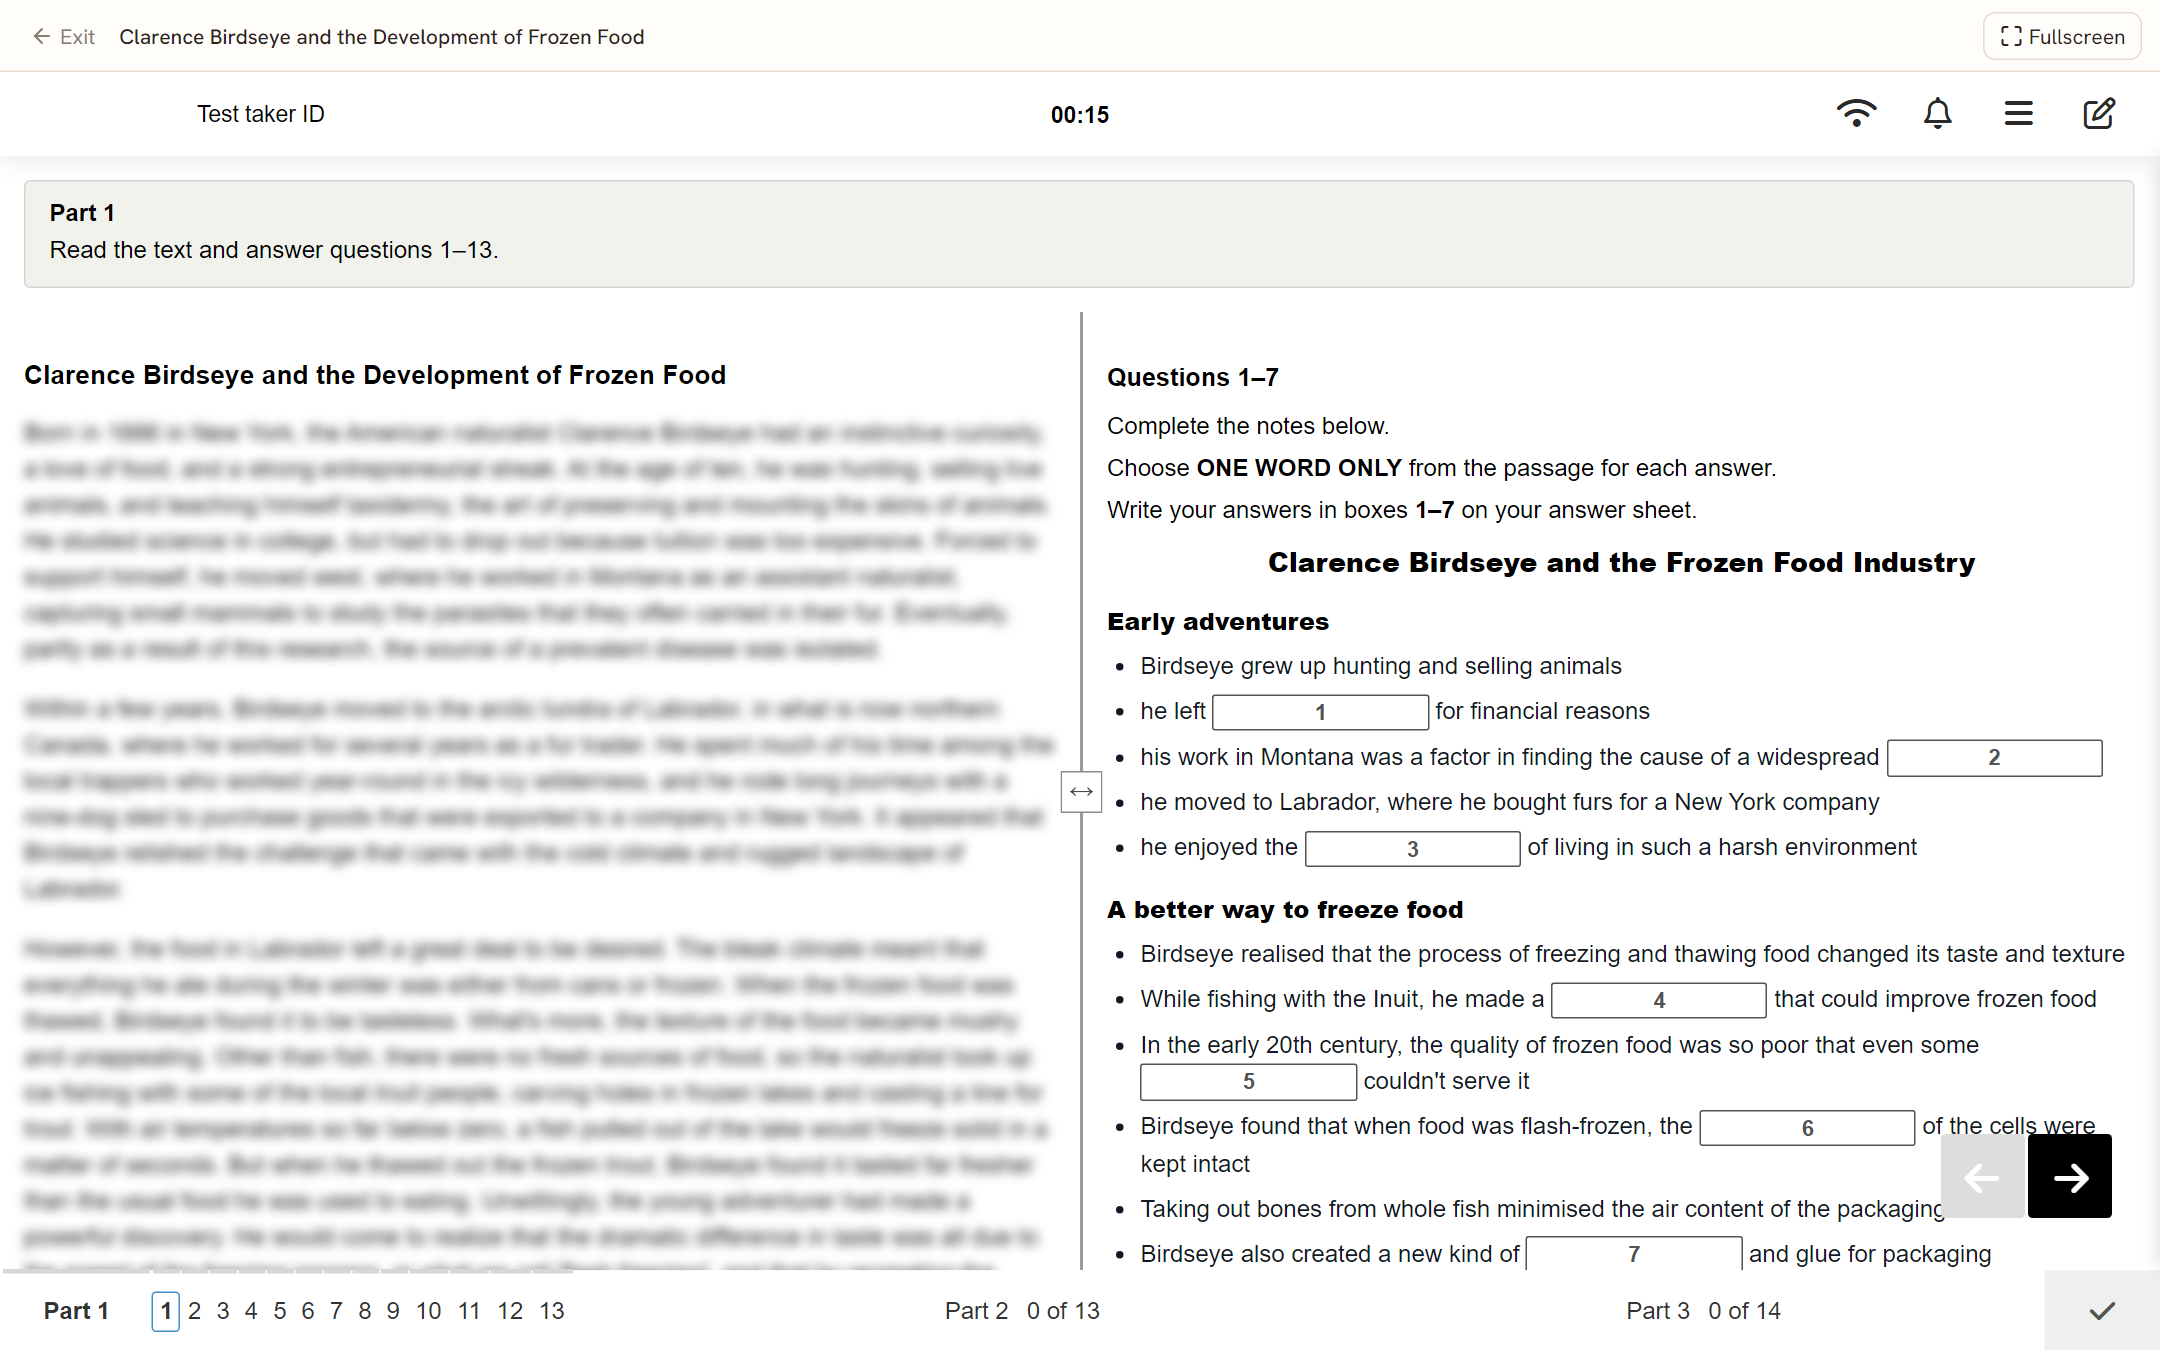
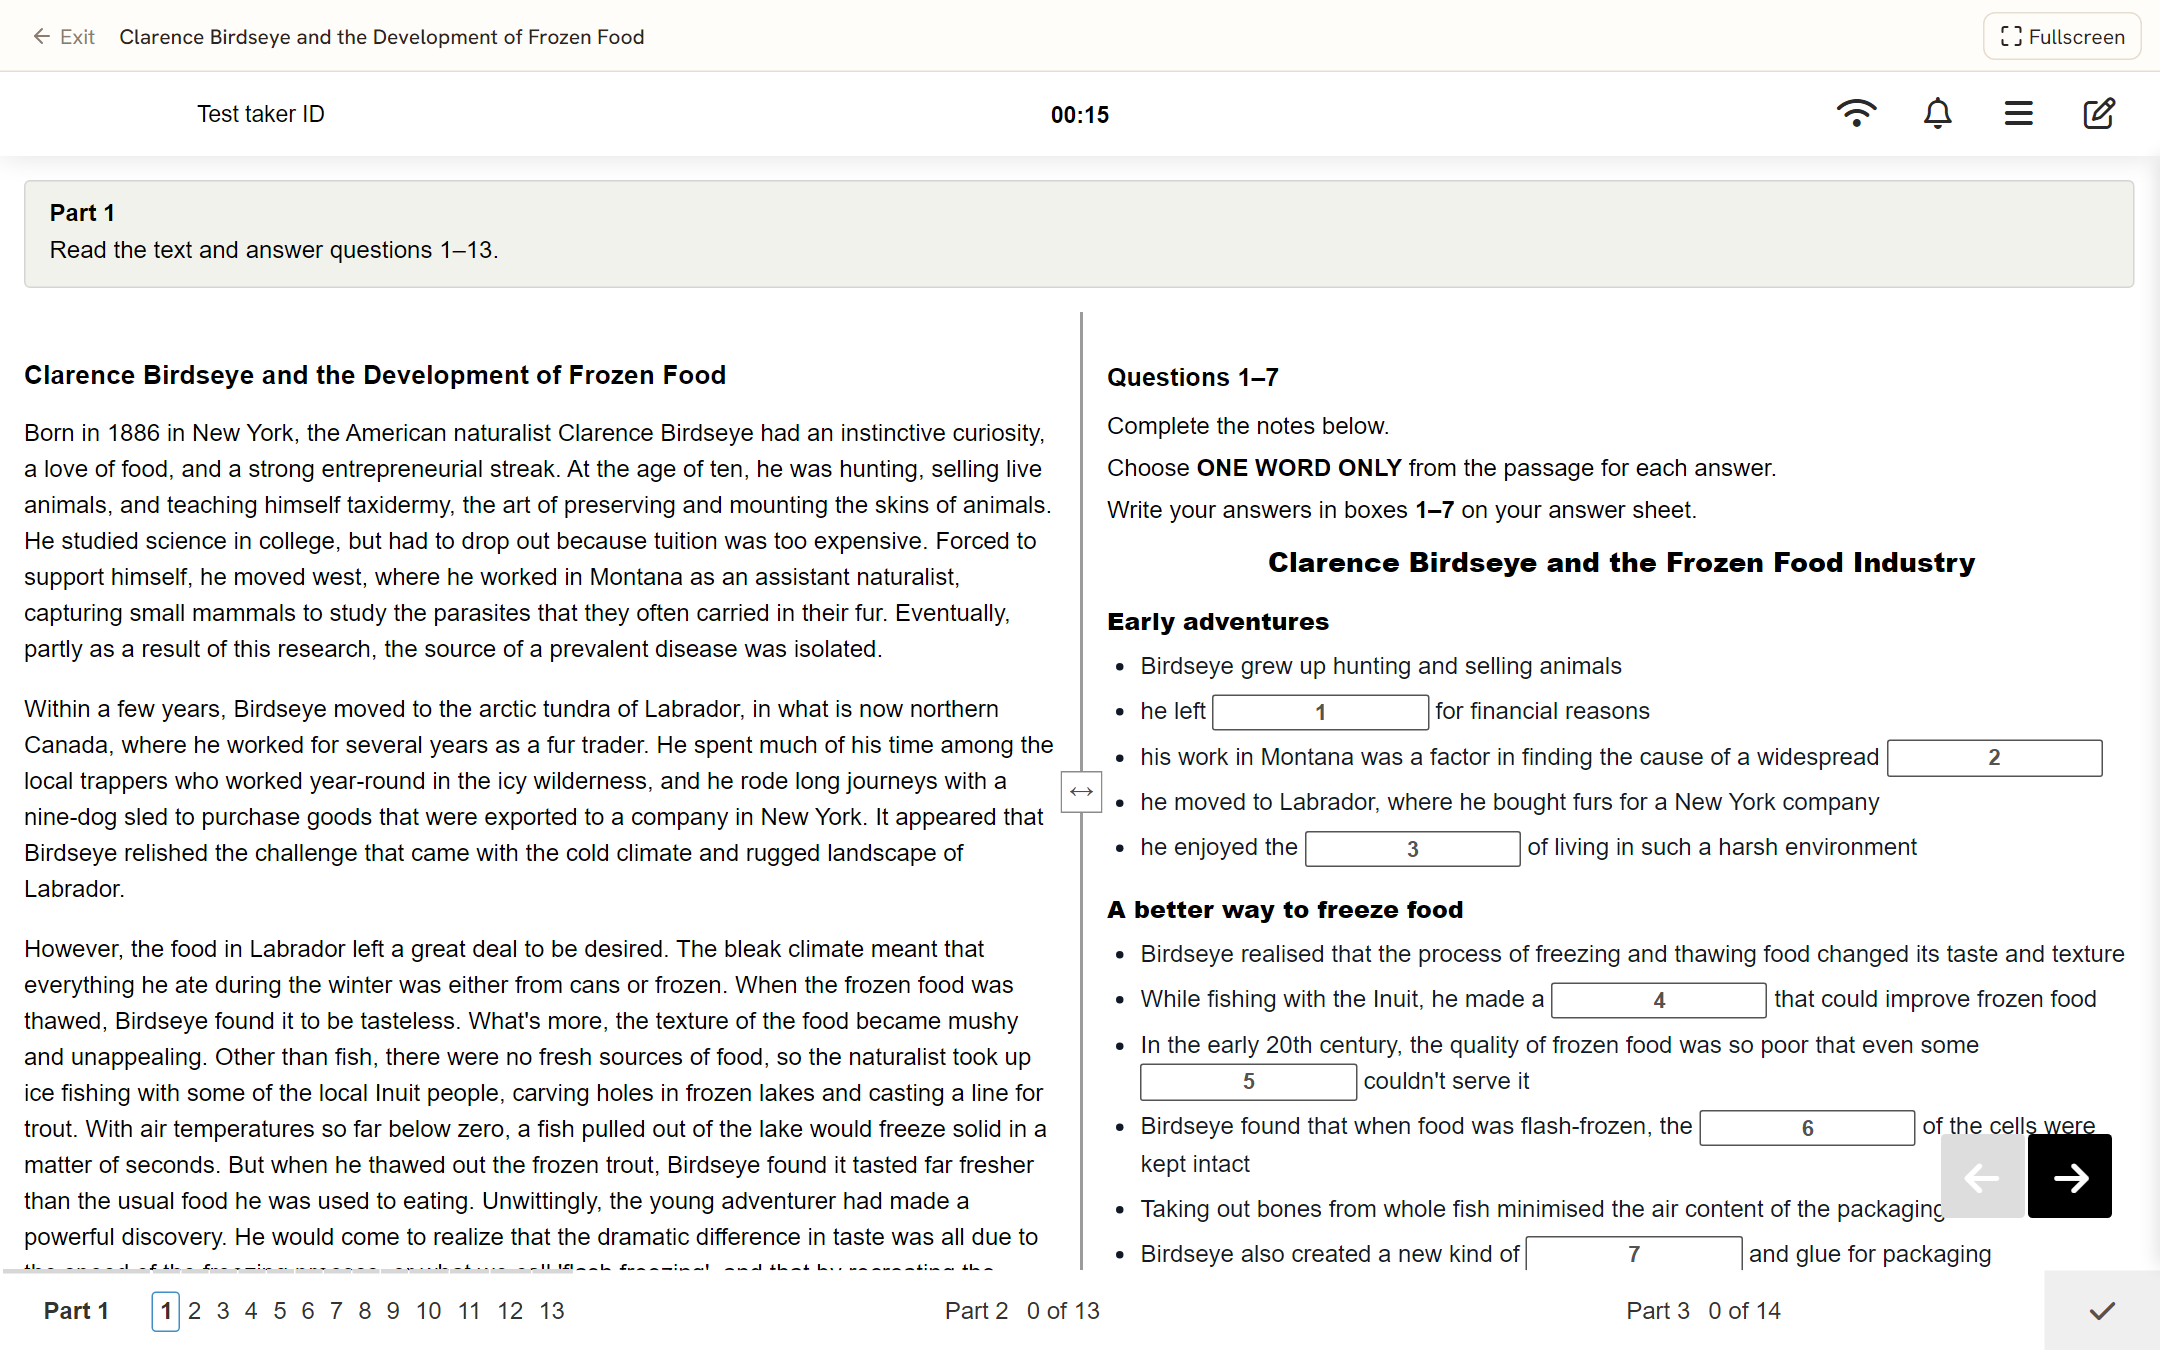
Show the reading passage in full in the product screenshot

Changed region(s): [[0.0, 0.3111, 0.4963, 0.9644]]

diff --git a/CLAUDE.md b/CLAUDE.md
@@ -243,10 +243,12 @@ default, `--base` to point elsewhere):
   service-role client, not a scripted CDI submit — shells are not uniform and
   scripting submit is the harness bug this file warns about. A throwaway account
   is created and deleted in a `finally`.
-- Before the shutter it blurs `.passageContent p` and hides `img.ielts-logo-img`.
-  Do not remove either: the passage is exam copy, and the IELTS wordmark is a
-  registered mark whose appearance in our marketing implies an affiliation this
-  site does not have. `--no-blur` / `--keep-logo` exist for local inspection.
+- The passage is captured in FULL — the owner's call, made deliberately: the
+  shot exists to prove the product is real, and a blurred passage undercuts
+  that. `--blur` opts back into blurring `.passageContent p`.
+- It still hides `img.ielts-logo-img`, because the shell loads the IELTS
+  wordmark from Cambridge's CDN and a registered mark in our own marketing
+  implies an affiliation this site does not have. `--keep-logo` overrides.
 
 On the page, BOTH theme variants are `loading="lazy"`. `display: none` suppresses
 a lazy fetch but NOT an eager one and NOT a `priority` preload — with either of
